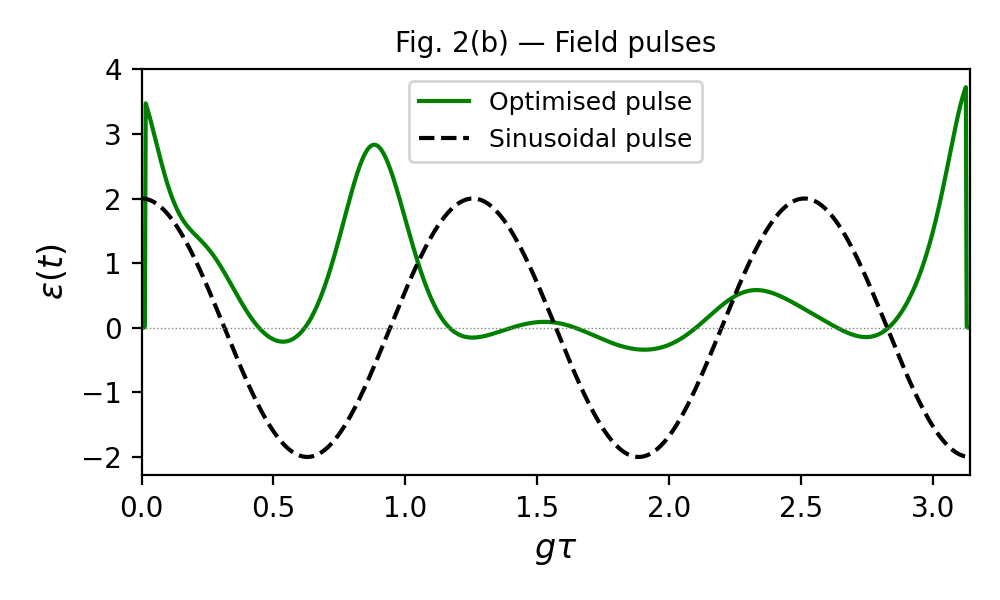
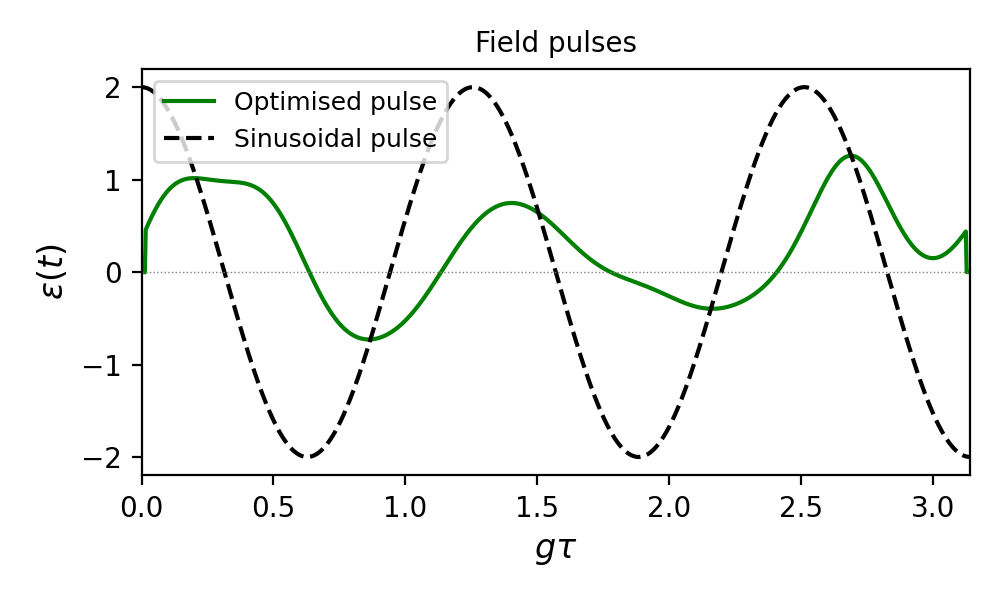
changed target state to mixed state, 90% of the way

diff --git a/quantum_battery_control.py b/quantum_battery_control.py
@@ -11,15 +11,15 @@ import os
 os.makedirs('./graphs', exist_ok=True)
 
 omega    = 1.0
-g        = 0.2  * omega   # charger-battery coupling
-gamma    = 0.05 * omega   # dissipation rate
-mu       = 0.5  * omega   # coupling to laser field
-Nb_T     = 0.0            # zero temperature
-kappa    = 0.5            # initial guess amplitude
-lambda_a = 5.0            # lambda=5, 500 iterations
-N_iter   = 500            # iter count
+g        = 0.2  * omega
+gamma    = 0.05 * omega
+mu       = 0.5  * omega
+Nb_T     = 0.0
+kappa    = 0.5
+lambda_a = 5.0
+N_iter   = 500
 
-tau   = np.pi / g         # final time
+tau   = np.pi / g
 N_t   = 1001
 tlist = np.linspace(0.0, tau, N_t)
 dt    = tlist[1] - tlist[0]
@@ -32,7 +32,7 @@ sp_A = tensor(sp, I2);  sm_A = tensor(sm, I2)
 sx_B = tensor(I2, sx);  sz_B = tensor(I2, sz)
 sp_B = tensor(I2, sp);  sm_B = tensor(I2, sm)
 
-# Hamiltonian — equation
+# Hamiltonian
 H_A       = (omega / 2.0) * ((-sz_A) + tensor(I2, I2))
 H_B       = (omega / 2.0) * ((-sz_B) + tensor(I2, I2))
 H_int     = g * (sp_A * sm_B + sm_A * sp_B)
@@ -48,10 +48,21 @@ Lc_mat = liouvillian(H_control).data.toarray()
 
 # States
 rho0    = ket2dm(tensor(basis(2, 0), basis(2, 0)))  # |00><00|
-rho_tgt = ket2dm(tensor(basis(2, 0), basis(2, 1)))  # |01><01|
+
+rho_tgt = (
+    ket2dm(tensor(basis(2, 0), basis(2, 1))) +
+    ket2dm(tensor(basis(2, 1), basis(2, 1)))
+) / 2.0
 
 rho0_np  = operator_to_vector(rho0).full().flatten()    # (16,)
 rtgt_np  = operator_to_vector(rho_tgt).full().flatten() # (16,)
+
+rtgt_norm_sq = np.real(rtgt_np.conj() @ rtgt_np)
+rtgt_hs_norm = np.sqrt(rtgt_norm_sq)
+rtgt_normalized_np = rtgt_np / rtgt_hs_norm
+
+# print(f"rho_tgt Hilbert-Schmidt norm: {rtgt_hs_norm:.6f}")
+# print(f"Max achievable fidelity F:    {rtgt_norm_sq:.6f}")
 
 # Shape function S(t)
 ton = toff = 0.005 * tau
@@ -69,13 +80,13 @@ S_array = np.array([S_of_t(t) for t in tlist])
 def eps_sin_func(t, args=None):
     return 2.0 * np.cos(omega * t)
 
-# Initial guess: eps^(0)(t) = S(t) * kappa
+# Initial guess
 eps_array = S_array * kappa
 
-# Krotov algorithm for open quantum systems
+# Krotov algorithm
 def backward_propagate(eps_arr):
     states = np.zeros((N_t, 16), dtype=complex)
-    states[-1] = rtgt_np
+    states[-1] = rtgt_normalized_np
     for k in range(N_t - 1, 0, -1):
         eps_mid = 0.5 * (eps_arr[k] + eps_arr[k - 1])
         L_tot   = L0_mat + eps_mid * Lc_mat
@@ -85,14 +96,14 @@ def backward_propagate(eps_arr):
 
 print("Running Krotov optimisation ...")
 
-F_prev          = 0.0
+F_prev           = 0.0
 no_improve_count = 0
-tol             = 1e-6   # tolerance
-patience        = 40     # stop after this many not improved iterations
+tol              = 1e-6
+patience         = 40
 
 for iteration in range(N_iter):
 
-    bwd = backward_propagate(eps_array)
+    bwd     = backward_propagate(eps_array)
     new_eps = eps_array.copy()
     rho     = rho0_np.copy()
 
@@ -111,28 +122,29 @@ for iteration in range(N_iter):
 
     # Boundary condition
     new_eps = new_eps * S_array
-    F = np.real(rtgt_np.conj() @ rho)
+
+    F      = np.real(rtgt_np.conj() @ rho)
+    F_norm = F / rtgt_norm_sq
 
     eps_array = new_eps
 
     if (iteration + 1) % 20 == 0 or iteration == 0:
         W_cur = np.trapz(eps_array**2, tlist)
-        print(f"  iter {iteration + 1:4d}   fidelity = {F:.6f}   W = {W_cur:.3f}")
+        print(f"  iter {iteration + 1:4d}   fidelity = {F_norm:.6f}   W = {W_cur:.3f}")
 
-    # halt when fidelity stops improving
-    if abs(F - F_prev) < tol:
+    if abs(F_norm - F_prev) < tol:
         no_improve_count += 1
         if no_improve_count >= patience:
             print(f"  Converged at iteration {iteration + 1} (fidelity change < {tol})")
             break
     else:
         no_improve_count = 0
-    F_prev = F
+    F_prev = F_norm
 
 print("Optimisation finished.")
 eps_opt_array = eps_array.copy()
 
-# Final time evolution using QuTiP mesolve
+# Final time evolution
 def make_interp_pulse(arr):
     def _pulse(t, args=None):
         return float(np.interp(t, tlist, arr))
@@ -172,7 +184,7 @@ def ergotropy_rho(rho_sys, H_b_local):
 
     return E, max(0.0, E - E_pass)
 
-# Observables at every time step
+# Observables
 E_opt   = np.zeros(N_t)
 erg_opt = np.zeros(N_t)
 E_sin   = np.zeros(N_t)
@@ -187,7 +199,7 @@ erg_opt_n = erg_opt / omega
 E_sin_n   = E_sin   / omega
 erg_sin_n = erg_sin / omega
 
-gt = tlist * g   # x-axis
+gt = tlist * g
 
 # Quality factors
 aE    = (erg_opt[-1] / erg_sin[-1] - 1.0) * 100.0 if erg_sin[-1] > 0 else float('nan')
@@ -203,7 +215,7 @@ print(f"  W_opt   = {W_opt:.2f}  (paper: ~6.38)")
 print(f"  W_osc   = {W_osc:.2f}  (paper: ~31.42)")
 print(f"  alpha_W = {aW:.1f}%   (paper: ~392%)")
 
-# Energy & Ergotropy vs g*t
+# Figure 2(a)
 fig, ax = plt.subplots(figsize=(5, 4))
 
 ax.plot(gt, E_opt_n,   color='green', linestyle='-',  linewidth=1.5, label='Energy (opt)')
@@ -222,7 +234,7 @@ plt.savefig('./graphs/energy_ergotropy.png', dpi=200)
 plt.close()
 print("Saved: ./graphs/energy_ergotropy.png")
 
-# Pulse shapes
+# Figure 2(b)
 eps_sin_array = np.array([eps_sin_func(t) for t in tlist])
 
 fig, ax = plt.subplots(figsize=(5, 3))
